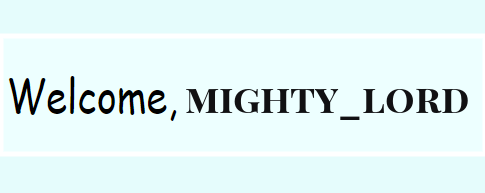
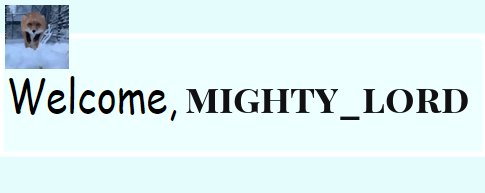
"add thumbnail and check for channel"

Changed region(s): [[0.0, 0.0, 0.1546, 0.3731]]

diff --git a/source/plugins/onjoin.py b/source/plugins/onjoin.py
@@ -1,10 +1,13 @@
 from PIL import Image, ImageFont, ImageDraw
 import discord
-import os 
+import os
+import requests
+from io import BytesIO
 
-# FIXME Poorly writte, yet to be worked on 
-def generate_onjoin_pic(username):
+def generate_onjoin_pic(namestr,url):
     # Get and print current working directory
+    
+    # Debug:
     #cwd = os.getcwd()
     #print(cwd)
 
@@ -12,27 +15,39 @@ def generate_onjoin_pic(username):
     im = Image.open("plugins/template.PNG")
     font_type = ImageFont.truetype("plugins/PlayfairDisplaySC-Bold.otf",39)
 
+    # Get and resize user avatar from url
+    response = requests.get(url)
+    avatar = Image.open(BytesIO(response.content))
+    avatar.thumbnail((64,64), Image.ANTIALIAS)
+
     # Add text user name to image
     draw = ImageDraw.Draw(im)
-    draw.text(xy=(185,70),text=username,fill=(17,17,19),font=font_type)
-    #im.show()
+    draw.text(xy=(185,70),text=namestr,fill=(17,17,19),font=font_type)
+    im.paste(avatar,box=(5,5))
     im.save("tmp/temp.png")
     return "tmp/temp.png"
 
-# For now to test just reply into user's DM
 async def test_welcome(client,message):
 
-    #channel = discord.Guild.get_channel(491900012104646668)
-    
-    # Get the string of user name
-    user = message.author
-    if isinstance(user,discord.Member):
-        username = user.nick
-    else: 
-        username = user.name
-    print(username)
-    toEmbed = generate_onjoin_pic(username)
-    await message.channel.send(file=discord.File(toEmbed))
+    # For debug only
+    if isinstance(message,str):
+        namestr = message
+        image = generate_onjoin_pic(namestr,"")
+        return
+
+    # Check if channel is DM or whitelisted
+    WHITELIST = [491899563527897089,491900012104646668]
+    if not (isinstance(message.channel,discord.DMChannel)
+    or message.channel.id in WHITELIST):
+        return
+
+    # Get user name string
+    namestr = message.author.name
+    if (message.author.nick):
+        namestr = message.author.nick
+
+    image = generate_onjoin_pic(namestr,message.author.avatar_url)
+    await message.channel.send(file=discord.File(image))
     return
 
 if __name__ == "__main__":
